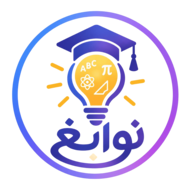
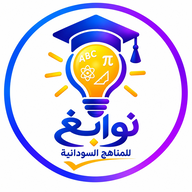
تحديث اسم نوابغ في الدعوات

diff --git a/src/lib/referral-share.ts b/src/lib/referral-share.ts
@@ -4,7 +4,7 @@ export type ReferralShareSettings = {
 };
 
 export const DEFAULT_REFERRAL_SHARE: ReferralShareSettings = {
-  message: "انضم معي إلى تطبيق نوابغ للمنهج السوداني، واستخدم كود الدعوة: {code}\n\nرابط التطبيق: {link}",
+  message: "انضم إلى نوابغ 🚀 تطبيقك للمذاكرة ومراجعة المناهج السودانية! استخدم كود الدعوة الخاص بي: {code}\nواستمتع برحلتك التعليمية مع نوابغ 📚\n\nرابط التطبيق: {link}",
   url: "https://bunny-learn-sudan.lovable.app",
 };
 

diff --git a/src/components/admin-referral-share.tsx b/src/components/admin-referral-share.tsx
@@ -37,7 +37,7 @@ export function AdminReferralShare() {
 
   if (settings.isLoading) return <Loader2 className="mx-auto my-8 size-6 animate-spin text-primary" />;
   if (settings.isError) return <p className="text-sm text-destructive">تعذّر تحميل رسالة الدعوة الحالية.</p>;
-  const preview = buildReferralMessage(form, "SAQRO-ABC123");
+  const preview = buildReferralMessage(form, "ABC123");
 
   return (
     <div className="flex flex-col gap-4">

diff --git a/src/routes/referrals.tsx b/src/routes/referrals.tsx
@@ -137,7 +137,7 @@ function ReferralsPage() {
               <input
                 value={friendCode}
                 onChange={(e) => setFriendCode(e.target.value.toUpperCase())}
-                placeholder="SAQRO-XXXXXX"
+                placeholder="أدخل كود الدعوة"
                 className="h-11 flex-1 rounded-2xl border border-border bg-card px-3 text-sm outline-none placeholder:text-muted-foreground"
               />
               <button

diff --git a/src/components/saqro.tsx b/src/components/saqro.tsx
@@ -1,5 +1,5 @@
-import lightLogo from "@/assets/nawabig-logo-light.png.asset.json";
-import darkLogo from "@/assets/nawabig-logo-dark.png.asset.json";
+import lightLogo from "@/assets/nawabig-logo-official.png.asset.json";
+import darkLogo from "@/assets/nawabig-logo-official.png.asset.json";
 import { cn } from "@/lib/utils";
 
 type Props = {
